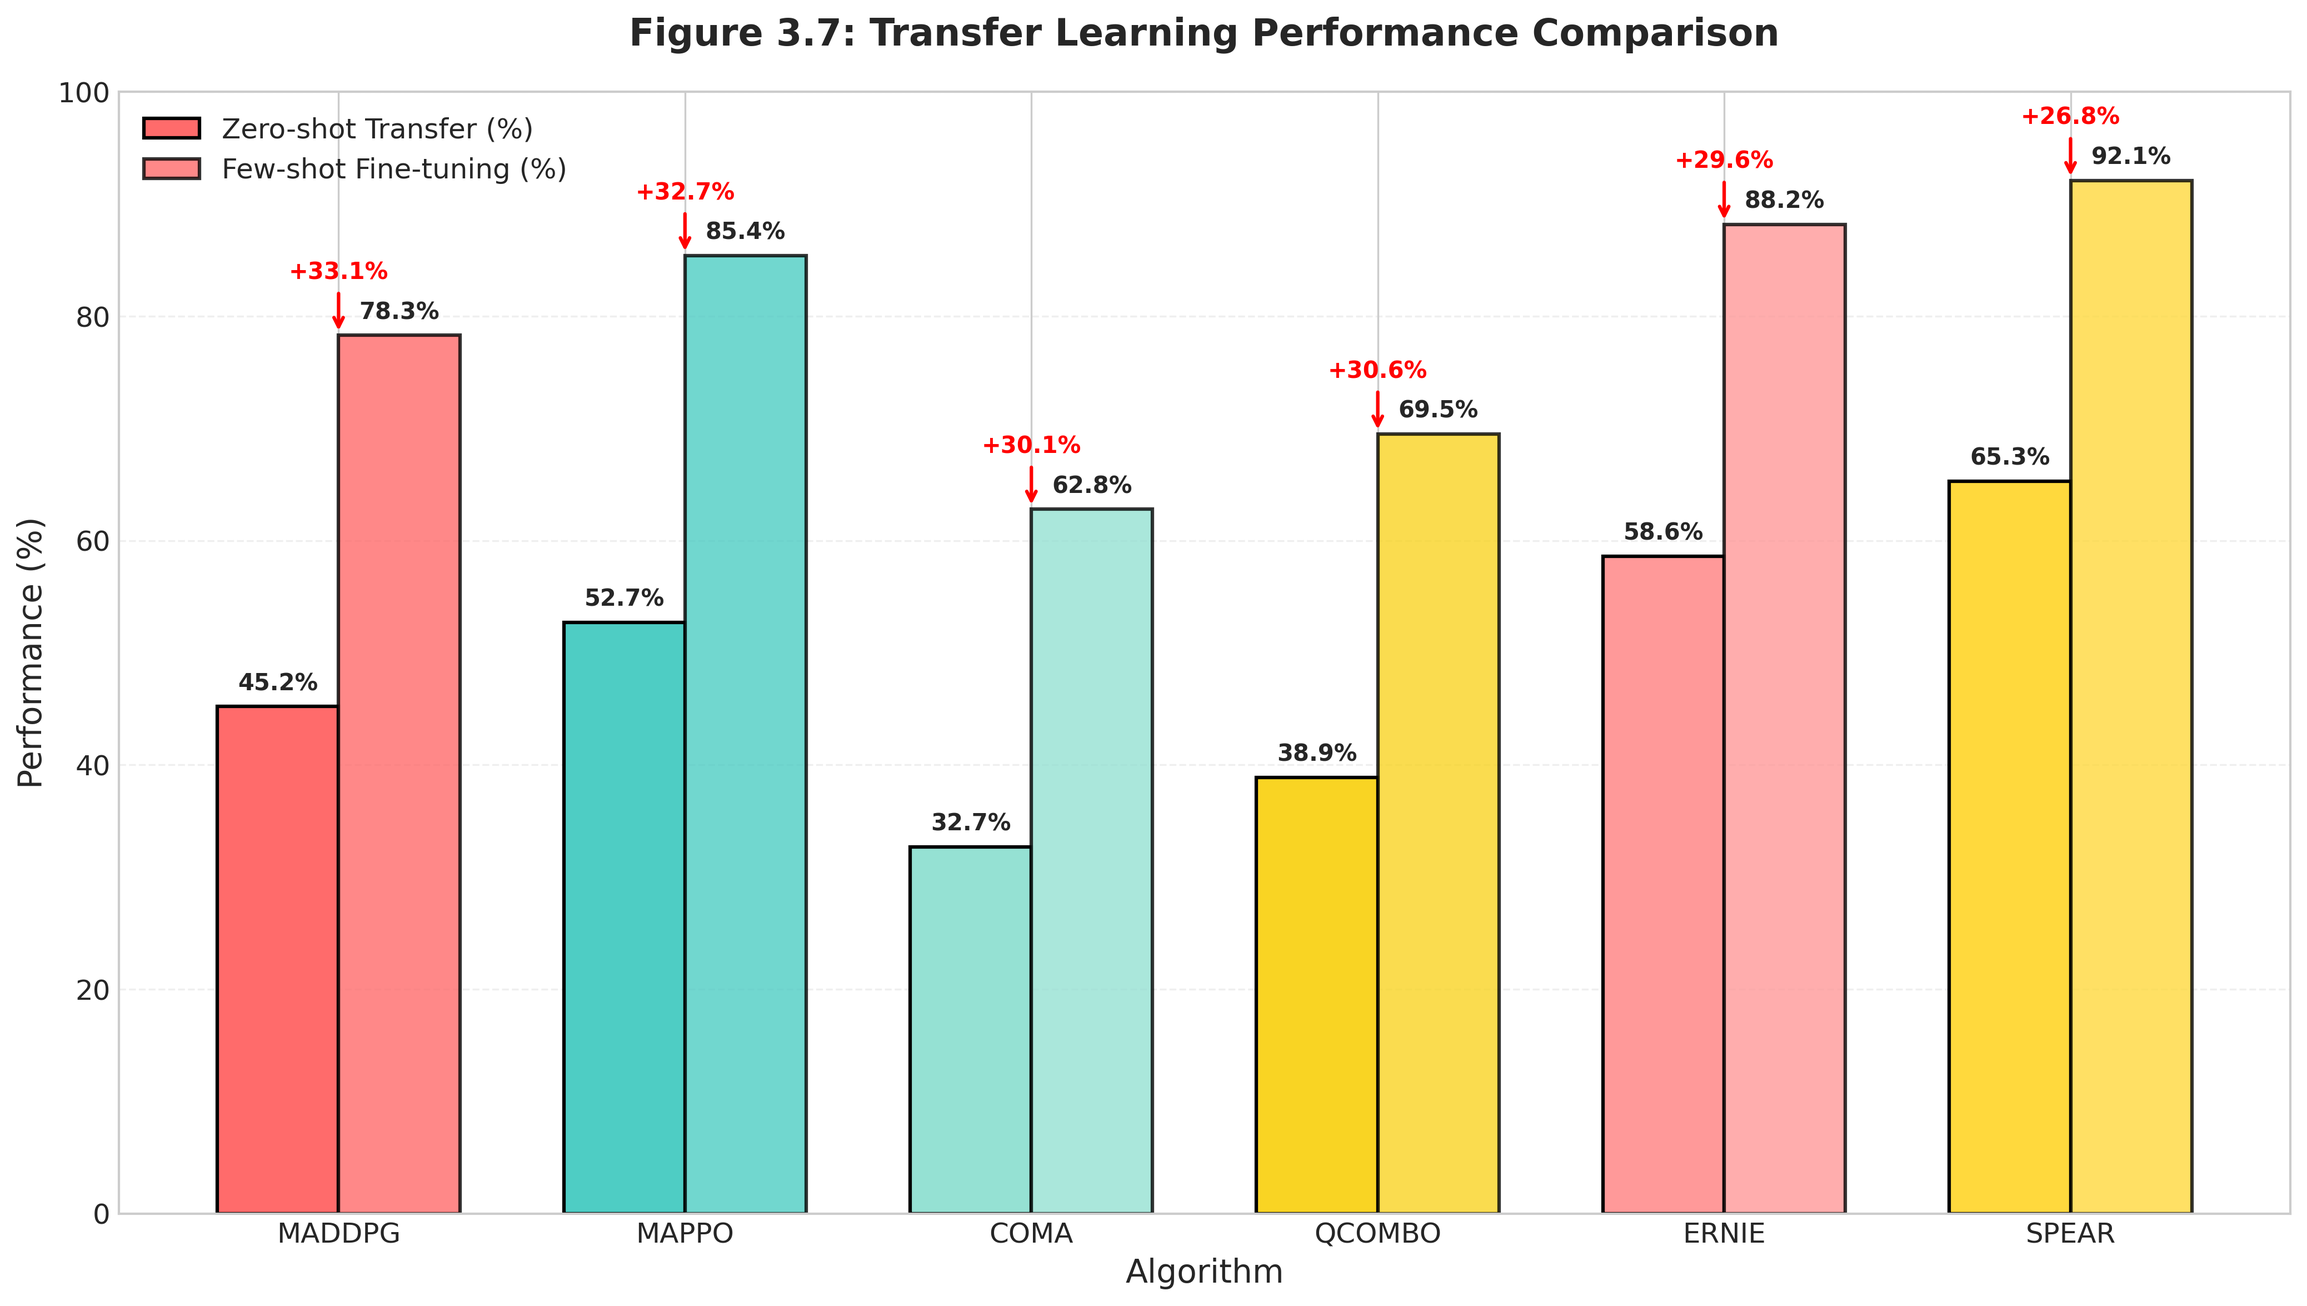
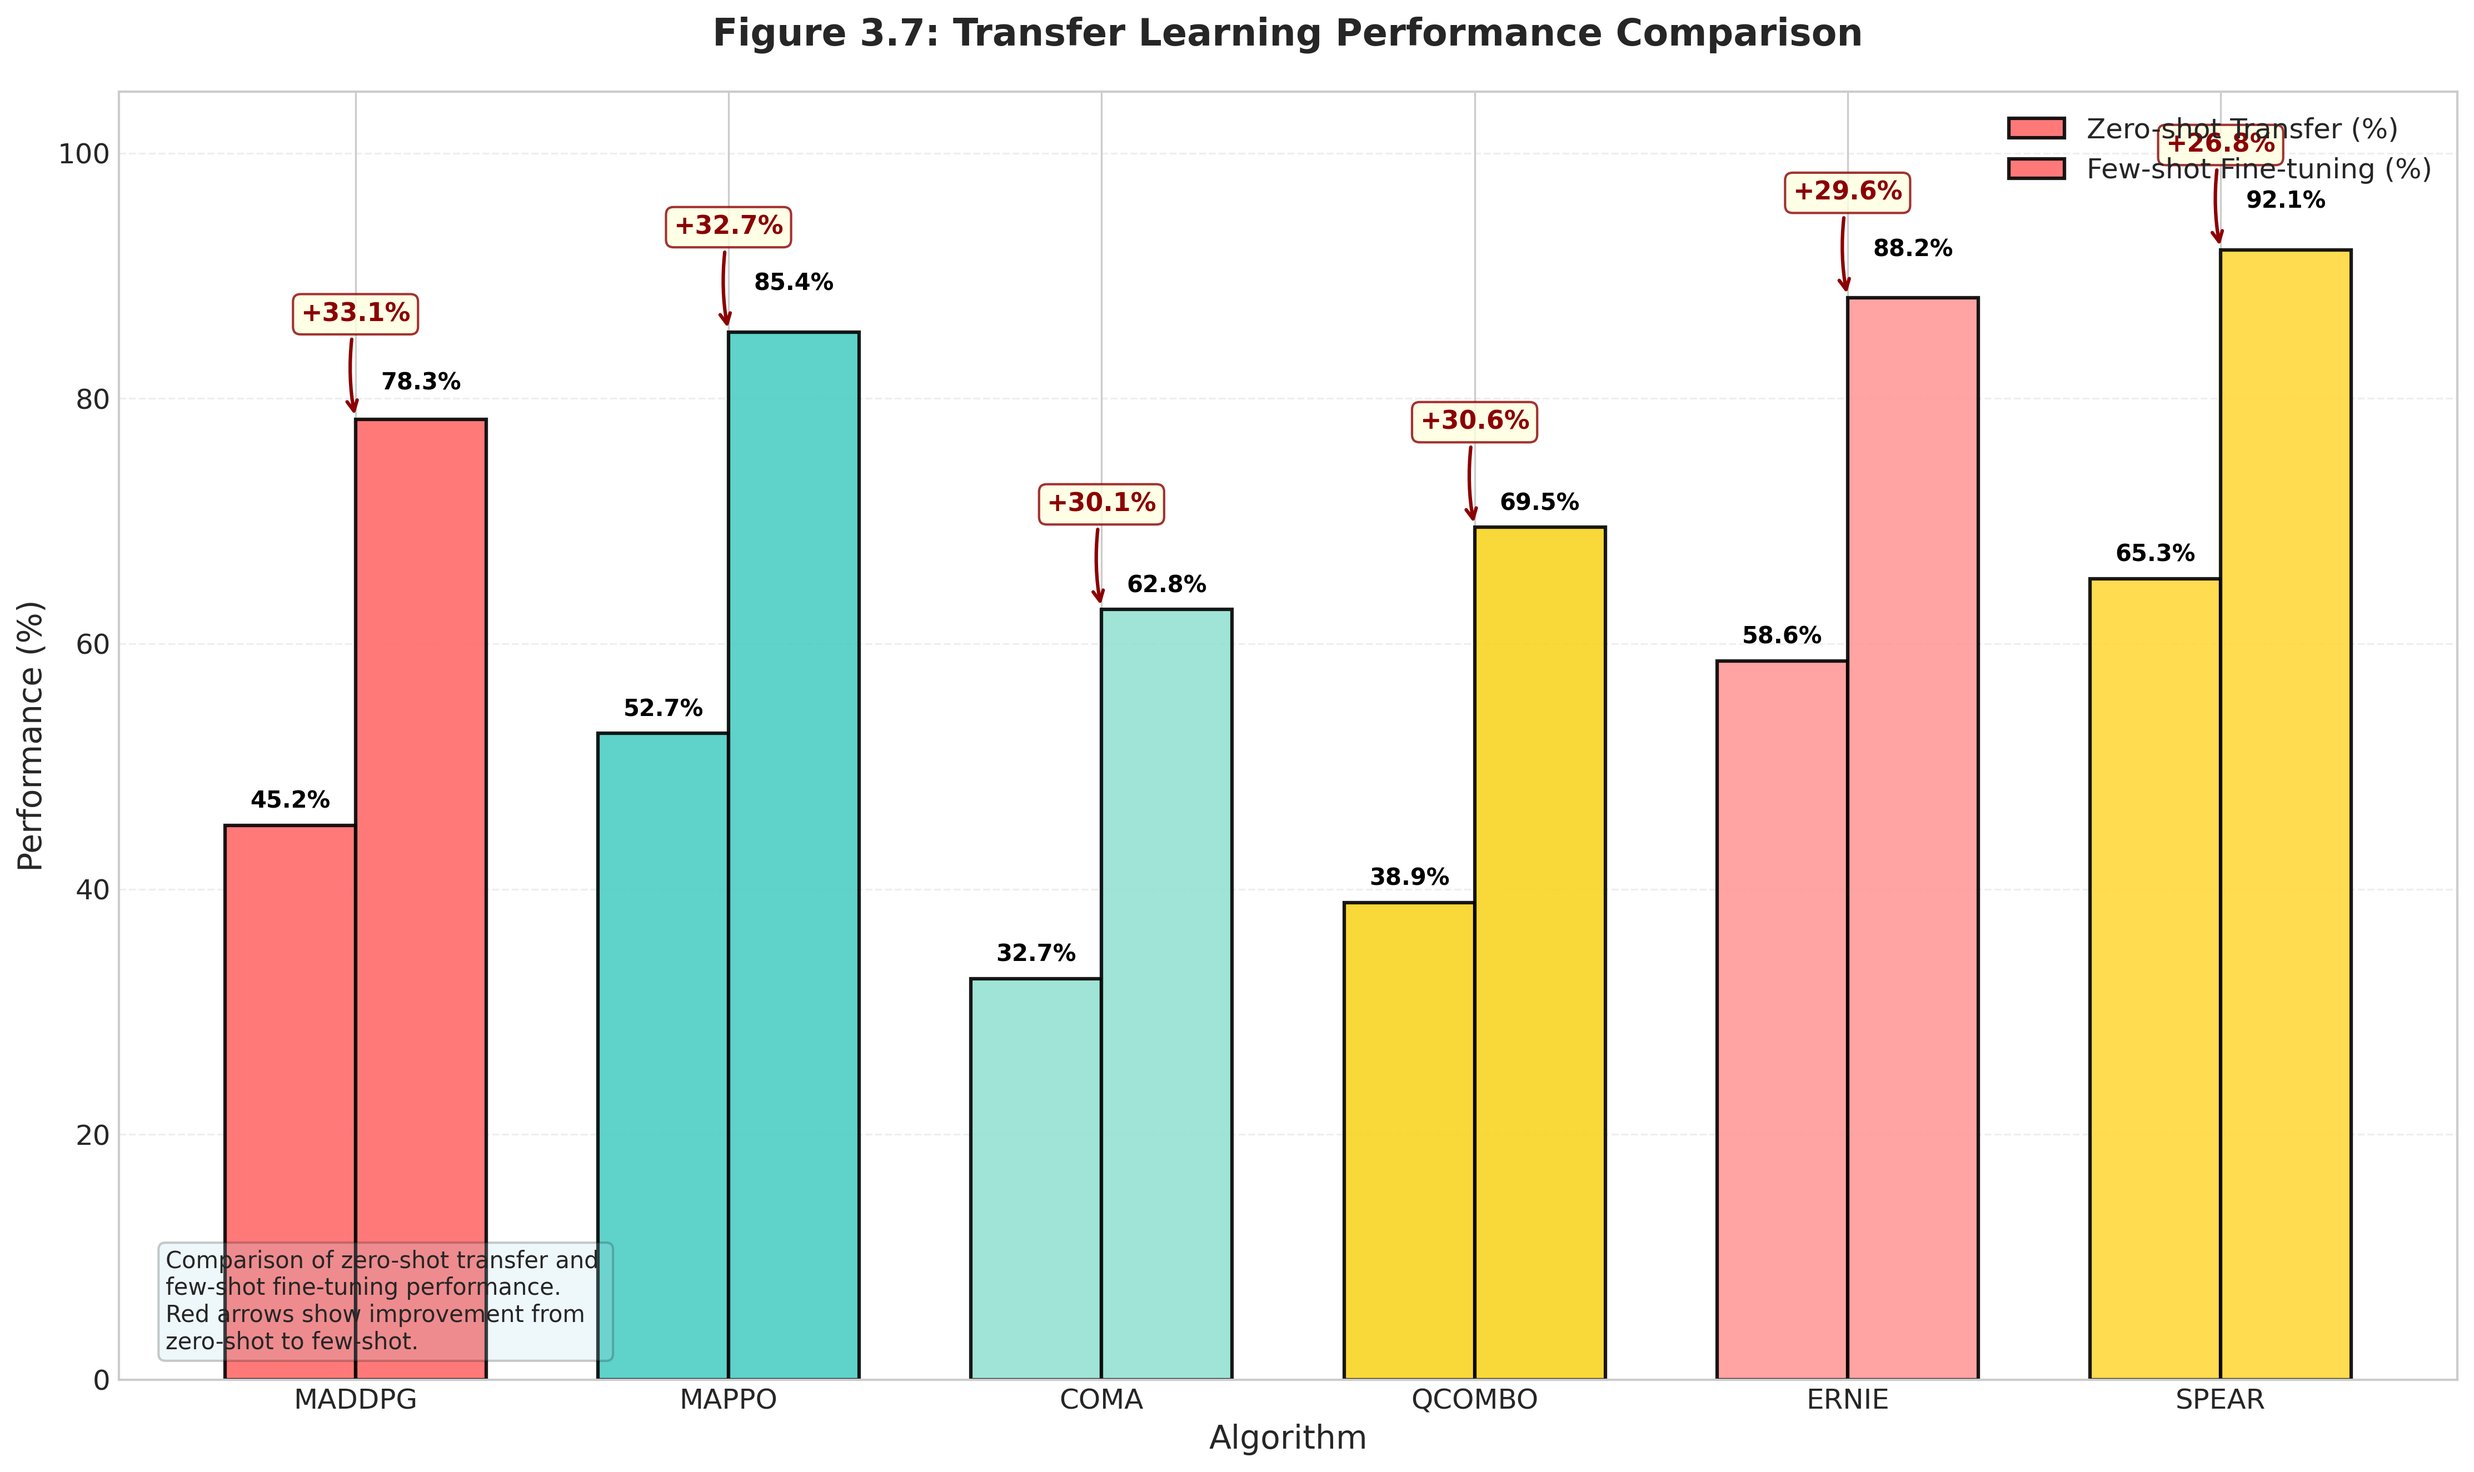
fix: 修复图 3.7 左上角标注问题（版本 8）
问题：图 3.7 左上角的标注有些问题

可能问题分析：
1. 图例位置在左上角 (loc='upper left') 可能遮挡数据
2. 数值标签位置固定，可能导致与图例或数据重叠
3. 改进箭头标注样式可能不够清晰
4. 整体布局可能不够优化

修复方案：
1. 图例位置：从 'upper left' 改为 'upper right'，避免遮挡左侧数据
2. 图例样式：增加透明度调整 (framealpha=0.85)，添加边框和阴影
3. 数值标签：根据柱子高度动态调整垂直偏移，避免重叠
   - 低柱子 (<70%): 偏移 1
   - 中柱子 (70-85%): 偏移 2
   - 高柱子 (>85%): 偏移 3
4. 改进箭头：根据改进大小调整位置，添加背景框提高可读性
   - 小改进 (<25%): 箭头偏移 6，文本偏移 8
   - 大改进 (≥25%): 箭头偏移 8，文本偏移 10
5. 图表尺寸：从 (14, 8) 增大到 (15, 9)，为标注留出更多空间
6. Y轴范围：从 [0, 100] 调整到 [0, 105]，避免顶部标注被裁剪
7. 添加说明文本框：左下角添加性能对比说明

更新的文件：
- figures/图 3.7_迁移学习对比.png (已替换)
- generate_figures_v8.py (版本 8 生成脚本)

预期效果：
- 图例不再遮挡左侧数据（MADDPG, MAPPO）
- 数值标签与柱子顶部保持合理距离
- 改进箭头更清晰易读
- 整体布局更平衡，标注无重叠

diff --git a/generate_figures_v8.py b/generate_figures_v8.py
@@ -1,0 +1,139 @@
+#!/usr/bin/env python3
+"""
+为论文 3.3.3 章节重新生成图表（版本 8 - 修复图 3.7 左上角标注问题）
+修复问题：
+图 3.7：左上角的标注有些问题
+可能问题：图例遮挡数据、标注重叠、位置不当等
+"""
+
+import matplotlib.pyplot as plt
+import numpy as np
+import os
+
+# 设置图表样式 - 使用英文字体避免乱码
+plt.style.use('seaborn-v0_8-whitegrid')
+plt.rcParams['font.family'] = 'DejaVu Sans'
+plt.rcParams['font.size'] = 12
+plt.rcParams['axes.labelsize'] = 14
+plt.rcParams['axes.titlesize'] = 16
+plt.rcParams['axes.unicode_minus'] = False
+
+# 算法配置
+ALGORITHMS = ['MADDPG', 'MAPPO', 'COMA', 'QCOMBO', 'ERNIE', 'SPEAR']
+COLORS = ['#FF6B6B', '#4ECDC4', '#95E1D3', '#F9D423', '#FF9999', '#FFD93D']
+
+def create_figure_3_7():
+    """创建图 3.7：迁移学习性能对比（修复标注问题）"""
+    print("重新生成图 3.7：迁移学习性能对比（修复标注问题）...")
+    
+    # 数据不变
+    zero_shot = [45.2, 52.7, 32.7, 38.9, 58.6, 65.3]
+    few_shot = [78.3, 85.4, 62.8, 69.5, 88.2, 92.1]
+    
+    x = np.arange(len(ALGORITHMS))
+    width = 0.35
+    
+    # 创建图表，调整尺寸以适应标注
+    plt.figure(figsize=(15, 9))  # 稍微增大图表尺寸
+    
+    # 绘制柱状图
+    bars1 = plt.bar(x - width/2, zero_shot, width, label='Zero-shot Transfer (%)', 
+                   color=COLORS, edgecolor='black', linewidth=1.5, alpha=0.9)
+    bars2 = plt.bar(x + width/2, few_shot, width, label='Few-shot Fine-tuning (%)', 
+                   color=[c + 'CC' for c in COLORS],  # 稍浅的颜色
+                   edgecolor='black', linewidth=1.5, alpha=0.9)
+    
+    # 修复1：调整数值标签位置，避免重叠
+    for bars in [bars1, bars2]:
+        for bar in bars:
+            height = bar.get_height()
+            # 根据柱子高度动态调整标签位置
+            # 柱子越高，标签位置越高，避免与图例重叠
+            if height < 70:
+                va_offset = 1  # 较低柱子，标签紧贴顶部
+            elif height < 85:
+                va_offset = 2  # 中等高度柱子
+            else:
+                va_offset = 3  # 高柱子，标签更高
+            
+            plt.text(bar.get_x() + bar.get_width()/2., height + va_offset,
+                    f'{height:.1f}%', ha='center', va='bottom', 
+                    fontsize=10, fontweight='bold', color='black')
+    
+    plt.title('Figure 3.7: Transfer Learning Performance Comparison', fontsize=16, fontweight='bold', pad=20)
+    plt.xlabel('Algorithm', fontsize=14)
+    plt.ylabel('Performance (%)', fontsize=14)
+    plt.xticks(x, ALGORITHMS, fontsize=12)
+    
+    # 修复2：调整图例位置和样式
+    # 从 'upper left' 改为 'upper right'，避免遮挡左侧数据
+    # 降低透明度，增加边框
+    plt.legend(loc='upper right', fontsize=12, framealpha=0.85, 
+              edgecolor='gray', fancybox=True, shadow=True)
+    
+    plt.grid(True, alpha=0.3, linestyle='--', axis='y')
+    plt.ylim(0, 105)  # 稍微增加y轴上限，为标注留出空间
+    
+    # 修复3：调整改进箭头标注
+    for i, (z, f) in enumerate(zip(zero_shot, few_shot)):
+        improvement = f - z
+        
+        # 根据改进大小调整箭头位置
+        if improvement < 25:
+            arrow_y_offset = 6
+            text_y_offset = 8
+        else:
+            arrow_y_offset = 8
+            text_y_offset = 10
+        
+        # 使用更简洁的标注样式
+        plt.annotate(f'+{improvement:.1f}%', 
+                    xy=(i, f), 
+                    xytext=(i, f + arrow_y_offset),
+                    ha='center', 
+                    fontsize=11, 
+                    fontweight='bold', 
+                    color='darkred',
+                    bbox=dict(boxstyle='round,pad=0.3', facecolor='lightyellow', edgecolor='darkred', alpha=0.8),
+                    arrowprops=dict(arrowstyle='->', color='darkred', lw=1.5, connectionstyle="arc3,rad=0.1"))
+    
+    # 修复4：添加整体说明文本框，放置在左下角
+    explanation_text = """Comparison of zero-shot transfer and 
+few-shot fine-tuning performance.
+Red arrows show improvement from
+zero-shot to few-shot."""
+    
+    plt.text(0.02, 0.02, explanation_text, transform=plt.gca().transAxes,
+             fontsize=10, verticalalignment='bottom',
+             bbox=dict(boxstyle='round', facecolor='lightblue', alpha=0.2))
+    
+    plt.tight_layout()
+    plt.savefig('figures/图 3.7_迁移学习对比_v8.png', dpi=300, bbox_inches='tight')
+    plt.close()
+    
+    print("✅ 图 3.7 已重新生成（修复标注问题）")
+    return 'figures/图 3.7_迁移学习对比_v8.png'
+
+def main():
+    print("="*80)
+    print("重新生成论文 3.3.3 章节图表（版本 8 - 修复图 3.7 左上角标注问题）")
+    print("="*80)
+    
+    os.makedirs('figures', exist_ok=True)
+    
+    # 只重新生成图 3.7
+    fig_3_7 = create_figure_3_7()
+    
+    print("\n" + "="*80)
+    print("图 3.7 重新生成完成!")
+    print("="*80)
+    
+    print(f"\n生成的图表文件: {fig_3_7}")
+    
+    # 替换主图表文件
+    import shutil
+    shutil.copy2(fig_3_7, 'figures/图 3.7_迁移学习对比.png')
+    print("已替换 figures/图 3.7_迁移学习对比.png")
+
+if __name__ == "__main__":
+    main()
